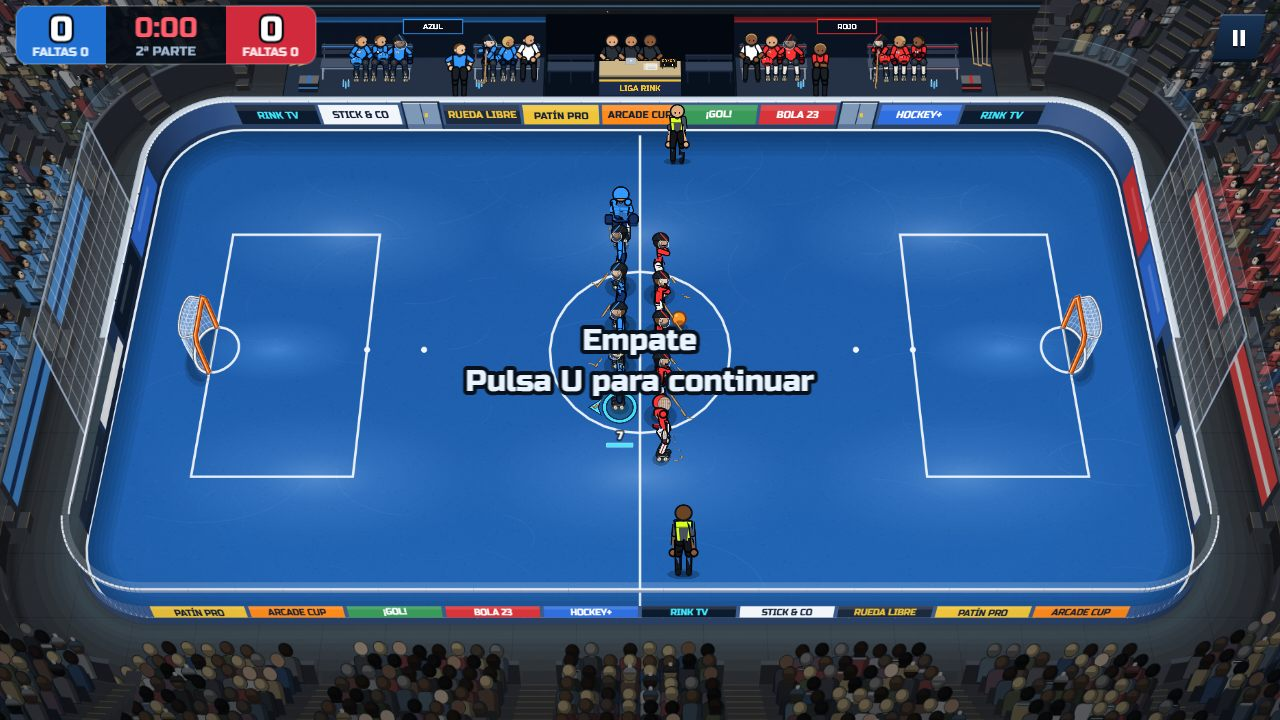
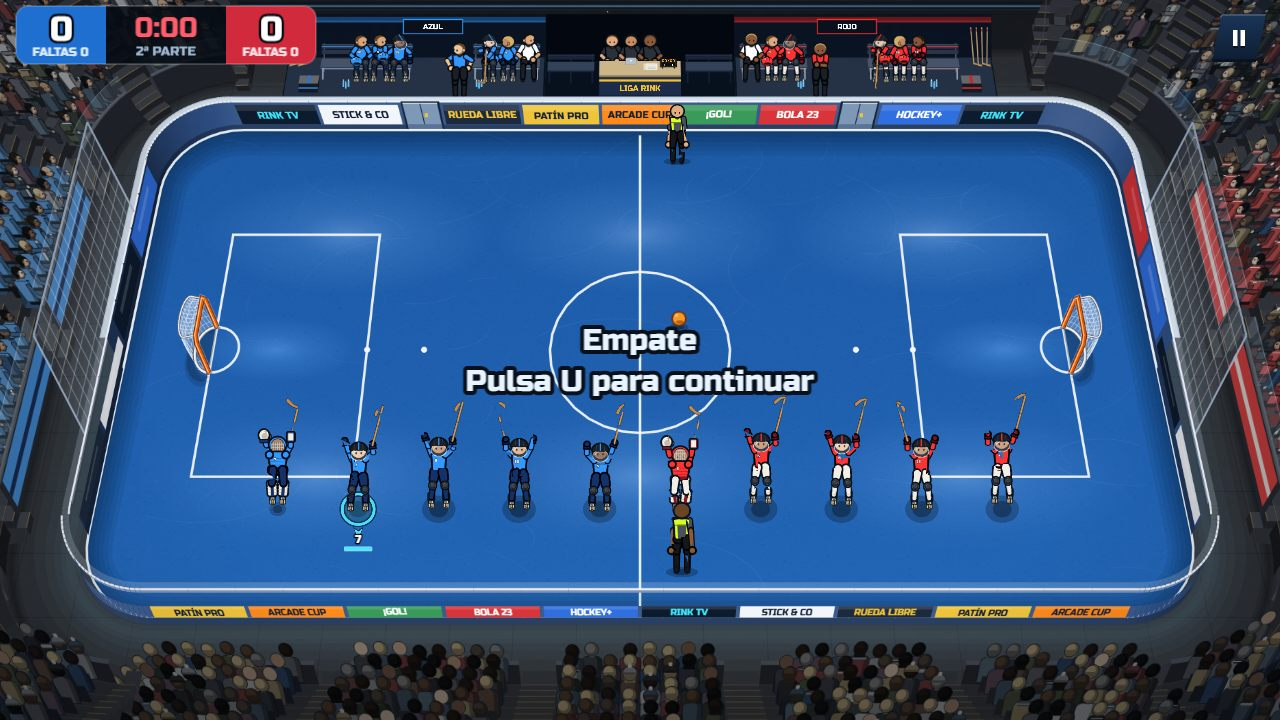
evo(E-21): saludo final en fila horizontal bajo el cartel, puertas abiertas en la salida y con suplentes en la puerta, hoja del hat-trick

diff --git a/src/game/systems/ceremony.ts b/src/game/systems/ceremony.ts
@@ -9,11 +9,15 @@
  *   chocando la mano con los rivales y saludan a la grada.
  * - `goal`: peso del gol (último minuto, empate, remontada, hat-trick) y celebración acorde.
  */
-import { CELEBRATION as C, CEREMONY as E } from '../constants'
+import { CELEBRATION as C, CEREMONY as E, PLAYER_RADIUS, RINK } from '../constants'
+import { DOOR_HOLD_INTRO, doorHold } from '../render/rink/boards'
 import { penaltyDoor } from '../render/rink/table'
 import type { Player, TeamColor } from '../types'
 import type { PauseDirector } from './celebration'
 import { coast, glide, MID_X, MID_Y, moodStyle, setMood, suspended, turnFacing } from './celebrationMotion'
+
+/** Altura de las filas del final: tercio inferior, por debajo del cartel del resultado. */
+const ROW_Y = MID_Y + RINK.height * E.rowYFrac
 
 const St = { Wait: 0, Go: 1, Meet: 2, Back: 3, Done: 4 } as const
 /** Fases del saludo final: E-19 aún, formar filas, cruzarse, saludo a la grada. */
@@ -110,9 +114,16 @@ export class CeremonyDirector {
     if (!this.introActive) return false
     this.ensure(players.length)
     let busy = false
+    doorHold.blue &= ~DOOR_HOLD_INTRO
+    doorHold.red &= ~DOOR_HOLD_INTRO
     for (let i = 0; i < players.length; i++) {
       const p = players[i]
       const cap = i === this.cap.blue || i === this.cap.red
+      // La puerta del banquillo, abierta mientras quede alguien por salir o cruzándola
+      if (this.st[i] === St.Wait || this.st[i] === St.Go) {
+        const d = penaltyDoor(p.team, E.doorInset, this.door)
+        if (this.st[i] === St.Wait || Math.hypot(p.pos.x - d.x, p.pos.y - d.y) < E.doorOpenR) doorHold[p.team] |= DOOR_HOLD_INTRO
+      }
       switch (this.st[i]) {
         case St.Wait:
           busy = true
@@ -177,6 +188,8 @@ export class CeremonyDirector {
   /** Fin de la salida (o salto): el gesto se apaga; el saque normal lo hace la escena. */
   endIntro(players: Player[], time: number) {
     this.introActive = false
+    doorHold.blue &= ~DOOR_HOLD_INTRO
+    doorHold.red &= ~DOOR_HOLD_INTRO
     for (const p of players) if (p.mood && p.mood.until === Infinity) p.mood.until = time + C.fadeMs
   }
 
@@ -202,10 +215,10 @@ export class CeremonyDirector {
         continue
       }
       const dir = p.side === 'left' ? 1 : -1
-      const ty = this.phase === Fin.Pass ? this.ty[i] + dir * E.passDist * row : this.ty[i]
-      const d = glide(p, this.tx[i], ty, this.phase === Fin.Pass ? E.passSpeed : E.lineSpeed, dt, true)
+      const tx = this.phase === Fin.Pass ? this.tx[i] + dir * E.passDist * row : this.tx[i]
+      const d = glide(p, tx, this.ty[i], this.phase === Fin.Pass ? E.passSpeed : E.lineSpeed, dt, true)
       if (d > E.arrive) moving = true
-      else turnFacing(p, this.phase === Fin.Pass ? 0 : -dir, this.phase === Fin.Pass ? dir : 0, Math.min(1, dt * 6))
+      else turnFacing(p, this.phase === Fin.Pass ? dir : 0, this.phase === Fin.Pass ? 0 : dir, Math.min(1, dt * 6))
     }
     if (this.phase === Fin.Pass) this.slaps(players, time)
     const formed = !moving || time - this.phaseAt > E.formMaxMs
@@ -215,8 +228,8 @@ export class CeremonyDirector {
   }
 
   /**
-   * Dos filas junto a la línea central: el equipo de la izquierda arriba y el de la derecha
-   * abajo; al cruzarse (uno baja, otro sube) quedan frente a frente a `lineGap`.
+   * Dos filas horizontales en el tercio inferior (no tapan el cartel): la izquierda arriba y a la
+   * izquierda, la derecha abajo y a la derecha; al cruzarse quedan frente a frente a `lineGap`.
    */
   private planLines(players: Player[], time: number) {
     this.phase = Fin.Form
@@ -228,8 +241,8 @@ export class CeremonyDirector {
         // El portero cierra la fila
         if (suspended(p, time) || (g === 0) === (p.role === 'goalie')) continue
         const dir = p.side === 'left' ? 1 : -1
-        this.tx[i] = MID_X - dir * E.lineGap * 0.5
-        this.ty[i] = MID_Y - dir * E.lineRow * (0.5 + k[p.side]++)
+        this.tx[i] = MID_X - dir * E.lineRow * (0.5 + k[p.side]++)
+        this.ty[i] = ROW_Y - dir * E.lineGap * 0.5
         this.slap[i] = -1
         setMood(p, 'cross', 0, time, Infinity)
       }
@@ -246,7 +259,7 @@ export class CeremonyDirector {
         if (b.side === 'left' || !b.mood || suspended(b, time) || this.slap[i] === j) continue
         const dx = b.pos.x - a.pos.x
         const dy = b.pos.y - a.pos.y
-        if (Math.abs(dy) > E.lineRow * 0.45 || Math.abs(dx) > E.lineGap * 1.6) continue
+        if (Math.abs(dx) > E.lineRow * 0.45 || Math.abs(dy) > E.lineGap * 1.6) continue
         if (busyHand(a, time) || busyHand(b, time)) continue
         this.slap[i] = j
         this.slap[j] = i
@@ -266,8 +279,8 @@ export class CeremonyDirector {
       for (let i = 0; i < players.length; i++) {
         const p = players[i]
         if (suspended(p, time) || (g === 0) !== (p.side === 'left')) continue
-        this.tx[i] = MID_X + (k++ - 4.5) * E.saluteGap
-        this.ty[i] = MID_Y + E.saluteY
+        this.tx[i] = MID_X + (k++ - 4.5) * E.saluteGapR * PLAYER_RADIUS
+        this.ty[i] = ROW_Y
       }
     }
     for (let i = 0; i < players.length; i++) {

diff --git a/src/game/render/benchPlayers.ts b/src/game/render/benchPlayers.ts
@@ -27,6 +27,7 @@ import { createPose } from './puppet/pose'
 import { PuppetRig, RIG_UNIT } from './puppet/rig'
 import { J, rigDims } from './puppet/skeleton'
 import { bakeResolution } from './quality'
+import { DOOR_HOLD_BENCH, doorHold } from './rink/boards'
 import { penaltyDoor } from './rink/table'
 import { PLATFORM_Z, SEAT_ANCHOR_Y, SEAT_PELVIS_Y, benchSide, benchX } from './rink/benches'
 import { BOARD_W } from './rink/geometry'
@@ -306,6 +307,9 @@ function dispatch(players: BenchPlayer[], p: Pending, t: number) {
   p.goal = null; p.foul = null; p.card = null; p.kickoff = false; p.rush = false
 }
 
+/** Equipos con algún suplente asomado a la puerta este fotograma (la abre en `boards`). */
+const atDoor = { blue: false, red: false }
+
 const ease01 = (v: number) => (v <= 0 ? 0 : v >= 1 ? 1 : v * v * (3 - 2 * v))
 
 /** E-21: del asiento a la puerta, de pie un rato y de vuelta; pone la `x` y devuelve la `y` base. */
@@ -314,6 +318,7 @@ function rushAt(f: BenchPlayer, t: number) {
   const e = t - f.rushFrom
   const k = e < R.moveMs ? ease01(e / R.moveMs) : e < R.moveMs + R.holdMs ? 1 : ease01((R.moveMs * 2 + R.holdMs - e) / R.moveMs)
   f.img.x = f.homeX + (f.rushX - f.homeX) * k
+  if (k > 0.6 && f.team) atDoor[f.team] = true
   return f.baseY + (f.rushY - f.baseY) * k
 }
 
@@ -340,6 +345,8 @@ export function updateBenchPlayers(players: BenchPlayer[], timeNow: number, ball
   const p = pendingOf.get(players)
   if (p && (p.goal || p.foul || p.card || p.kickoff)) dispatch(players, p, timeNow)
 
+  atDoor.blue = false
+  atDoor.red = false
   for (const f of players) {
     if (f.react >= 0 && timeNow >= f.reactFrom) {
       if (timeNow < f.reactUntil) {
@@ -377,4 +384,6 @@ export function updateBenchPlayers(players: BenchPlayer[], timeNow: number, ball
     }
     show(f, f.look)
   }
+  doorHold.blue = atDoor.blue ? doorHold.blue | DOOR_HOLD_BENCH : doorHold.blue & ~DOOR_HOLD_BENCH
+  doorHold.red = atDoor.red ? doorHold.red | DOOR_HOLD_BENCH : doorHold.red & ~DOOR_HOLD_BENCH
 }

diff --git a/src/game/render/rink/boards.ts b/src/game/render/rink/boards.ts
@@ -210,6 +210,13 @@ type DoorLeaves = {
 }
 const doorLeaves: Partial<Record<TeamColor, DoorLeaves>> = {}
 let doorClock = -1
+/**
+ * Puertas abiertas por otra causa que el paso del sancionado: un bit por causa
+ * (`DOOR_HOLD_INTRO` salida al campo, `DOOR_HOLD_BENCH` suplentes asomados en el gol).
+ */
+export const doorHold: Record<TeamColor, number> = { blue: 0, red: 0 }
+export const DOOR_HOLD_INTRO = 1
+export const DOOR_HOLD_BENCH = 2
 
 /** Hueco de la puerta con las dos hojas giradas `theta` hacia el pasillo (se abren hacia fuera de la pista). */
 function drawOpenDoor(g: Phaser.GameObjects.Graphics, x: number, theta: number) {
@@ -267,7 +274,7 @@ export function updateBoardDoors(busy: Record<TeamColor, boolean>, timeNow: numb
     const d = doorLeaves[team]
     if (!d || !d.open.active) continue
     const step = dtMs / BOARDS.doorSwingMs
-    d.amount = Math.min(1, Math.max(0, d.amount + (busy[team] ? step : -step)))
+    d.amount = Math.min(1, Math.max(0, d.amount + (busy[team] || doorHold[team] !== 0 ? step : -step)))
     const shown = d.amount > 0.65 ? 2 : d.amount > 0.15 ? 1 : 0
     if (shown === d.shown) continue
     d.shown = shown

diff --git a/src/scenes/lab/labFigures.ts b/src/scenes/lab/labFigures.ts
@@ -74,6 +74,8 @@ export interface LabMood {
   ms: number
   hit?: number | null
   side?: 1 | -1
+  /** E-21: peso del gol (gesto agrandado). */
+  big?: number
 }
 
 export interface FigureSpec {
@@ -144,7 +146,7 @@ export function poseFigure(fig: LabFigure, t: number, phaseOffset = 0) {
   if (fm) {
     const hit = fm.hit === undefined || fm.hit === null ? Infinity : t - fm.hit
     const m = player.mood ?? (player.mood = { kind: fm.kind, style: 0, at: 0, until: Infinity, hit, side: 1 })
-    m.kind = fm.kind; m.style = fm.style; m.at = t - fm.ms; m.until = Infinity; m.hit = hit; m.side = fm.side ?? 1
+    m.kind = fm.kind; m.style = fm.style; m.at = t - fm.ms; m.until = Infinity; m.hit = hit; m.side = fm.side ?? 1; m.big = fm.big
   }
   // Con bola, donde la pone la física (con su adelanto por velocidad); sin ella, un proxy delante
   if (fig.carrying) updateBallPosition(fig.ball, { x: 0, y: 0 }, player.id, [player], 0)

diff --git a/src/scenes/lab/labActionStrips.ts b/src/scenes/lab/labActionStrips.ts
@@ -131,6 +131,12 @@ export const ACTION_STRIPS: Record<string, () => FigureSpec[]> = {
     mood: { kind: 'down' as const, style: row + 1, ms },
     x: MID_X + (k - 2) * MOOD_DX, y: MID_Y + row * MOOD_DY,
   }))),
+  /** E-21: hat-trick (tres dedos), salto con el puño con peso y sin él. */
+  hattrick: () => [
+    ...moodRow(-1, { kind: 'score', style: 4, ms: 1500, hit: 500 }),
+    ...moodRow(0, { kind: 'score', style: 2, ms: 1500, hit: 400, big: 1 }),
+    ...moodRow(1, { kind: 'score', style: 2, ms: 1500, hit: 400 }),
+  ],
   /** E-19: cabizbajo arrastrando el stick, final ganador (salto en V) y choque de manos al cruzar. */
   moods4: () => [
     ...moodRow(-1, { kind: 'down', style: 0, ms: 1500 }, true),

diff --git a/src/game/constants.ts b/src/game/constants.ts
@@ -367,7 +367,7 @@ export const CEREMONY = {
   staggerMs: 260, queueGap: 34, doorInset: 30, enterSpeed: 470, capSpeed: 380, capGap: 40,
   arrive: 14, introMaxMs: 4800, shakeHoldMs: 700,
   lineDelayMs: 2600, lineGap: 44, lineRow: 58, lineSpeed: 240, passSpeed: 50, passDist: 4.8,
-  formMaxMs: 2600, saluteMs: 900, saluteGap: 50, saluteY: 90,
+  formMaxMs: 2600, saluteMs: 900, saluteGapR: 4.2, rowYFrac: 0.31, doorOpenR: 80,
   lastMinuteS: 60, wLastMinute: 0.5, wEqualizer: 0.35, wComeback: 0.45, wHatTrick: 0.5,
   extraMs: 1000, tighten: 0.3, cheerMs: 1600, cheerPower: 0.5,
 } as const
